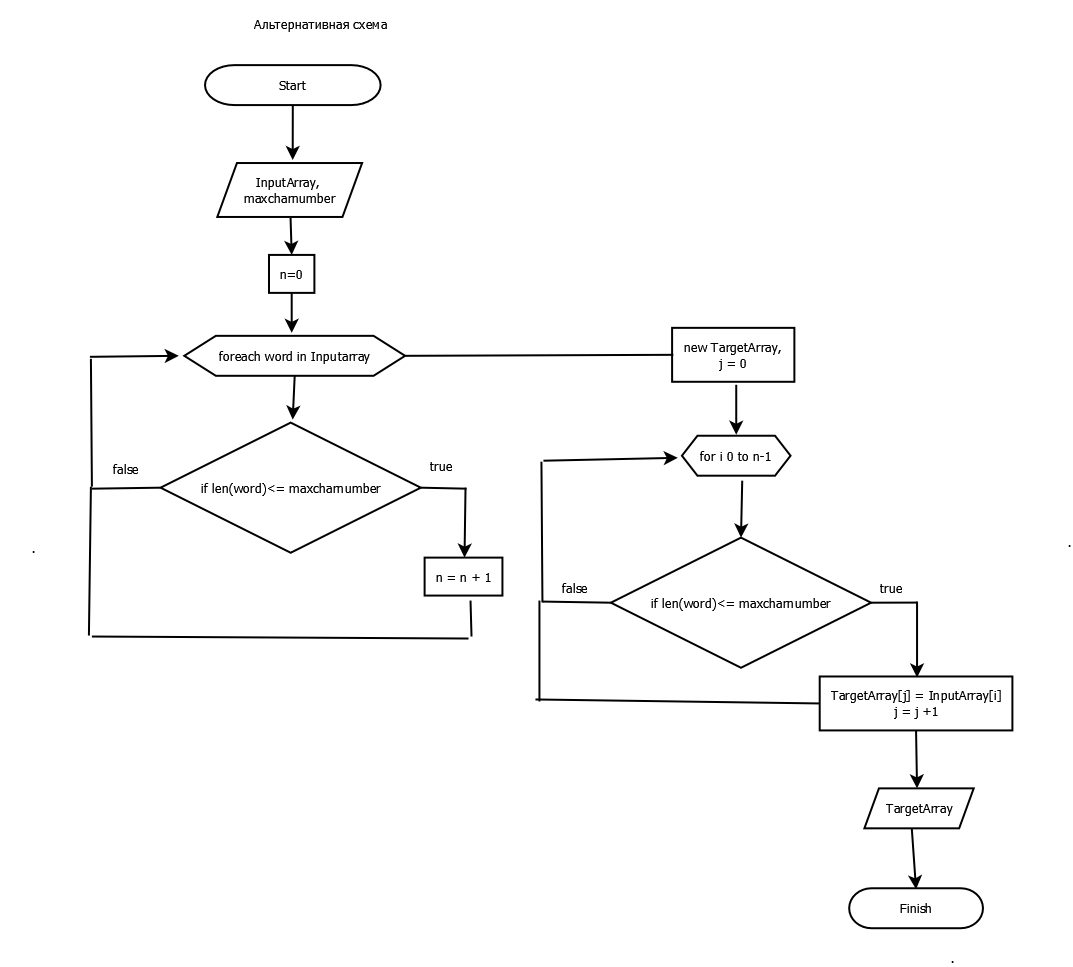
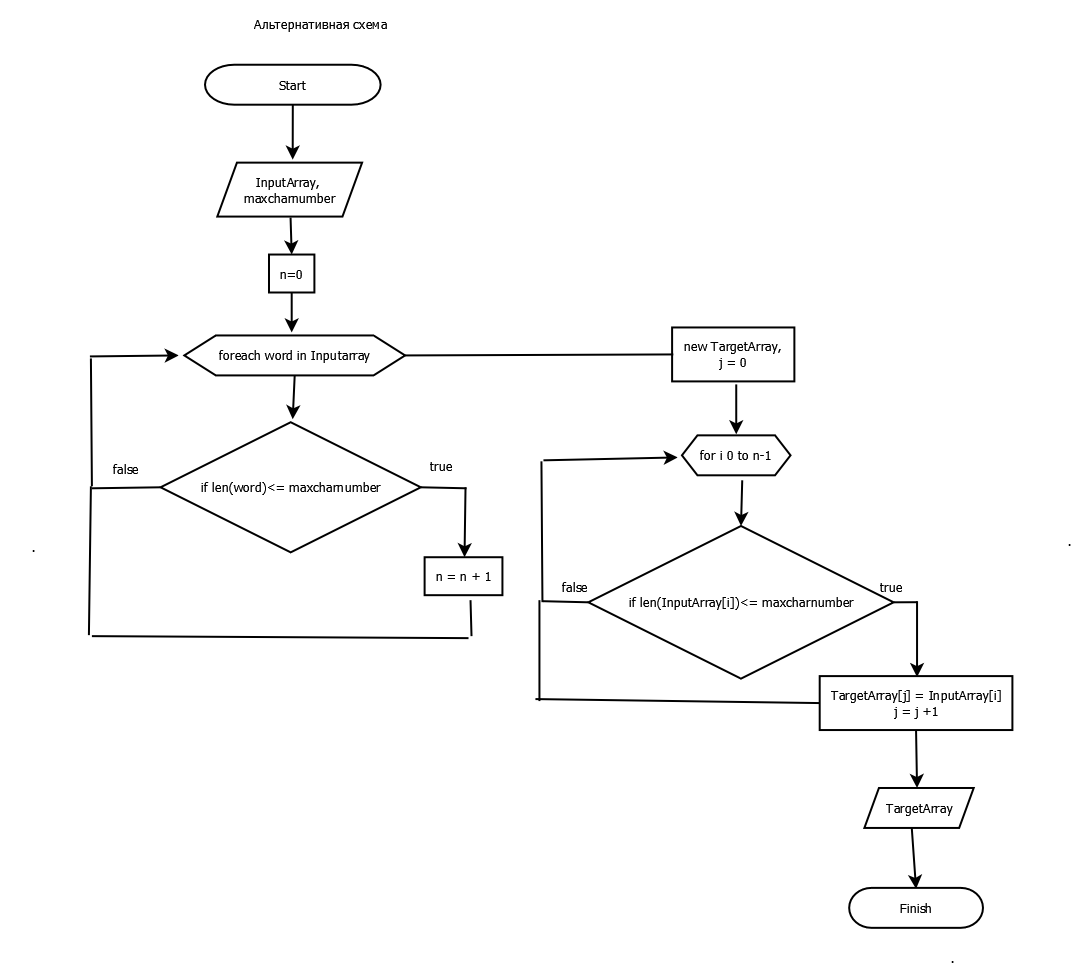
Добавлен альтарнативный метод

diff --git a/FinalTest/Program.cs b/FinalTest/Program.cs
@@ -35,12 +35,13 @@ class Programm
         return array;
     }
 
-    static string[] CuttedArray(int maxcharnumber, string[] InputArray) // блок - схема
+    // блок - схема
+    static string[] CuttedArray(int maxcharnumber, string[] InputArray)
     {
-        string[] TargetArray = new string[] {};
+        string[] TargetArray = new string[] { };
         foreach (string word in InputArray)
         {
-            if(word.Length <= maxcharnumber)
+            if (word.Length <= maxcharnumber)
             {
                 TargetArray = TargetArray.Append(word).ToArray();
             }
@@ -77,6 +78,9 @@ class Programm
         }
 
         string[] TargetArray = CuttedArray(maxcharcount, InputArray);
+        // альтернативный метод
+        //Alter alter = new Alter(); 
+        // string[] TargetArray = alter.TargetArray(maxcharcount, InputArray);
         Console.WriteLine("Массив отобранных слов:");
         Console.WriteLine(string.Join("\t ", TargetArray));
     }

diff --git a/FinalTest/alter.cs b/FinalTest/alter.cs
@@ -1,0 +1,29 @@
+using System;
+
+public class Alter{
+
+public string[] TargetArray(int maxcharnumber, string[] InputArray)
+{
+    int n = 0;
+    foreach(string word in InputArray)
+    {
+        if(word.Length < maxcharnumber + 1)
+        {
+            n++;
+        }
+    }
+    string[] Array = new string[n];
+    int j = 0;
+    for(int i =0; i < InputArray.Length; i++)
+    {
+        if(InputArray[i].Length < maxcharnumber + 1)
+        {
+            Array[j] = InputArray[i];
+            j++; 
+        }
+    }
+    return Array;
+}
+
+
+}

diff --git a/FinalTest/README.MD b/FinalTest/README.MD
@@ -30,3 +30,8 @@
 ## Примечание ##
 
 Функция CuttedArray реализована через метод append, который каждый раз создаёт новый массив TargetArray. На больших массивах это приведёт к замедлению работы.
+Альтернативный способ изображён ниже
+
+![img](alter.png)
+
+Блок - схема воплощена в модуле alter.cs
